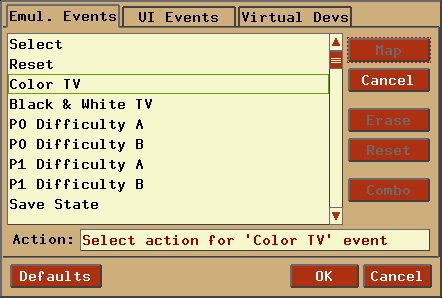
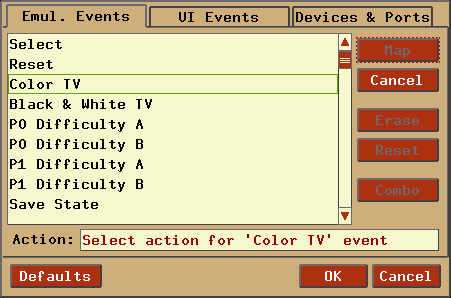
Updated webpage for upcoming 3.2.1 release.

diff --git a/htdocs/docs/index.html b/htdocs/docs/index.html
@@ -10,7 +10,7 @@
   <br><br>
   <center><h2><b>A multi-platform Atari 2600 VCS emulator</b></h2></center>
 
-  <center><h4><b>Release 3.2</b></h4></center>
+  <center><h4><b>Release 3.2.1</b></h4></center>
   <br><br>
 
   <center><h2><b>User's Guide</b></h2></center>
@@ -2341,10 +2341,10 @@
 
   </p>
 
-  <p>Virtual devices can be configured under the 'Virtual Devs' tab, shown below:</p>
+  <p>Device and port settings can be configured under the 'Devices & Ports' tab, shown below:</p>
   <table border="5" cellpadding="2" frame="box" rules="none">
     <tr>
-      <td><img src="graphics/eventmapping_virtualdevs.png"></td>
+      <td><img src="graphics/eventmapping_devsports.png"></td>
       <td>&nbsp;&nbsp;&nbsp;&nbsp;</td>
       <td valign="top">
         <table border="1" cellpadding="4">
@@ -2541,7 +2541,7 @@
   this is outside the scope of this document).  Once your operating system
   properly detects the AtariVox, you will need to tell Stella which serial
   port it is connected to.  This is done by using the '-avoxport' commandline
-  argument, or by setting it in the UI under the 'Virtual Devs' tab in
+  argument, or by setting it in the UI under the 'Devices & Ports' tab in
   <b>Advanced Configuration - <a href="#Remapping">Input Devices</a></b>.</p>
 
   <p>Note that you must use the entire name of the port as specified by

diff --git a/htdocs/downloads.php b/htdocs/downloads.php
@@ -15,57 +15,57 @@
 <table BORDER=0 CELLPADDING=6 WIDTH="100%">
 
 	<tr>
-		<td><b>Latest&nbsp;Release (v/ 3.2)</b></td>
+		<td><b>Latest&nbsp;Release (v/ 3.2.1)</b></td>
 		<td>&nbsp;</td>
 	</tr>
 
 	<tr>
-		<td BGCOLOR="#CCCCCC"><a href="http://prdownloads.sourceforge.net/stella/Stella-3.2-win32.exe?download">Stella-3.2-win32.exe</a></td>
+		<td BGCOLOR="#CCCCCC"><a href="http://prdownloads.sourceforge.net/stella/Stella-3.2.1-win32.exe?download">Stella-3.2.1-win32.exe</a></td>
 		<td BGCOLOR="#FFCC99">Binary installer (exe) for 32-bit Windows 2000/XP/Vista/7</td>
 	</tr>
 
 	<tr>
-		<td BGCOLOR="#CCCCCC"><a href="http://prdownloads.sourceforge.net/stella/Stella-3.2-x64.exe?download">Stella-3.2-x64.exe</a></td>
+		<td BGCOLOR="#CCCCCC"><a href="http://prdownloads.sourceforge.net/stella/Stella-3.2.1-x64.exe?download">Stella-3.2.1-x64.exe</a></td>
 		<td BGCOLOR="#FFCC99">Binary installer (exe) for 64-bit Windows Vista/7</td>
 	</tr>
 
 	<tr>
-		<td BGCOLOR="#CCCCCC"><a href="http://prdownloads.sourceforge.net/stella/Stella-3.2-windows.zip?download">Stella-3.2-windows.zip</a></td>
+		<td BGCOLOR="#CCCCCC"><a href="http://prdownloads.sourceforge.net/stella/Stella-3.2.1-windows.zip?download">Stella-3.2.1-windows.zip</a></td>
 		<td BGCOLOR="#FFCC99">Binary ZIP (32-bit and 64-bit) for Windows 2000/XP/Vista/7</td>
 	</tr>
 
 	<tr>
-		<td BGCOLOR="#CCCCCC"><a href="http://prdownloads.sourceforge.net/stella/Stella-3.2-macosx.dmg?download">Stella-3.2-macosx.dmg</a></td>
+		<td BGCOLOR="#CCCCCC"><a href="http://prdownloads.sourceforge.net/stella/Stella-3.2.1-macosx.dmg?download">Stella-3.2.1-macosx.dmg</a></td>
 		<td BGCOLOR="#FFCC99">Binary DMG for MacOS X (32-bit Universal Binary, version 10.4 and higher)</td>
 	</tr>
 
 	<tr>
-		<td BGCOLOR="#CCCCCC"><a href="http://prdownloads.sourceforge.net/stella/Stella-3.2_intel_10.6-macosx.dmg?download">Stella-3.2_intel_10.6-macosx.dmg</a></td>
+		<td BGCOLOR="#CCCCCC"><a href="http://prdownloads.sourceforge.net/stella/Stella-3.2.1_intel_10.6-macosx.dmg?download">Stella-3.2.1_intel_10.6-macosx.dmg</a></td>
 		<td BGCOLOR="#FFCC99">Binary DMG for MacOS X (32/64-bit, Intel CPU/Snow Leopard only)</td>
 	</tr>
 
 	<tr>
-		<td BGCOLOR="#CCCCCC"><a href="http://prdownloads.sourceforge.net/stella/stella_3.2-1_i386.deb?download">stella_3.2-1_i386.deb</a></td>
+		<td BGCOLOR="#CCCCCC"><a href="http://prdownloads.sourceforge.net/stella/stella_3.2.1-1_i386.deb?download">stella_3.2.1-1_i386.deb</a></td>
 		<td BGCOLOR="#FFCC99">Binary 32-bit DEB for Ubuntu Lucid Lynx (10.04)</td>
 	</tr>
 
 	<tr>
-		<td BGCOLOR="#CCCCCC"><a href="http://prdownloads.sourceforge.net/stella/stella_3.2-1_amd64.deb?download">stella_3.2-1_amd64.deb</a></td>
+		<td BGCOLOR="#CCCCCC"><a href="http://prdownloads.sourceforge.net/stella/stella_3.2.1-1_amd64.deb?download">stella_3.2.1-1_amd64.deb</a></td>
 		<td BGCOLOR="#FFCC99">Binary 64-bit DEB for Ubuntu Lucid Lynx (10.04)</td>
 	</tr>
 
 	<tr>
-		<td BGCOLOR="#CCCCCC"><a href="http://prdownloads.sourceforge.net/stella/stella-3.2-2.i386.rpm?download">stella-3.2-2.i386.rpm</a></td>
+		<td BGCOLOR="#CCCCCC"><a href="http://prdownloads.sourceforge.net/stella/stella-3.2.1-2.i386.rpm?download">stella-3.2.1-2.i386.rpm</a></td>
 		<td BGCOLOR="#FFCC99">Binary 32-bit RPM for Linux (tested in Fedora and Mandriva)</td>
 	</tr>
 
 	<tr>
-		<td BGCOLOR="#CCCCCC"><a href="http://prdownloads.sourceforge.net/stella/stella-3.2-2.x86_64.rpm?download">stella-3.2-2.x86_64.rpm</a></td>
+		<td BGCOLOR="#CCCCCC"><a href="http://prdownloads.sourceforge.net/stella/stella-3.2.1-2.x86_64.rpm?download">stella-3.2.1-2.x86_64.rpm</a></td>
 		<td BGCOLOR="#FFCC99">Binary 64-bit RPM for Linux (tested in Fedora and Mandriva)</td>
 	</tr>
 
 	<tr>
-		<td BGCOLOR="#CCCCCC"><a href="http://prdownloads.sourceforge.net/stella/stella-3.2-src.tar.gz?download">stella-3.2-src.tar.gz</a></td>
+		<td BGCOLOR="#CCCCCC"><a href="http://prdownloads.sourceforge.net/stella/stella-3.2.1-src.tar.gz?download">stella-3.2.1-src.tar.gz</a></td>
 		<td BGCOLOR="#FFCC99">Source code tarball for all systems</td>
 	</tr>
 
@@ -80,7 +80,7 @@
 	</tr>
 
 	<tr>
-		<td BGCOLOR="#CCCCCC"><a href="http://prdownloads.sourceforge.net/stella/stella-snapshots-20100820.zip?download">stella-snapshots-20100820.zip</a></td>
+		<td BGCOLOR="#CCCCCC"><a href="http://prdownloads.sourceforge.net/stella/stella-snapshots-20100825.zip?download">stella-snapshots-20100825.zip</a></td>
 		<td BGCOLOR="#FFCC99">Snapshot files for use in ROM launcher/ROM Info Viewer</td>
 	</tr>
 

diff --git a/htdocs/stellanews.php b/htdocs/stellanews.php
@@ -12,6 +12,22 @@
 			<div class="content">
 
 <!---------------------------------------------------------------->
+<H4>August 25, 2010</H4>
+Stella release 3.2.1 for Linux, MacOS X and Windows is now available.
+<ul>
+<li>Improved behaviour of joystick 'hat' movement.  This should fix bugs
+    most visible in Yars' Revenge.</li>
+
+<li>Fixed bug in debugger rewind states; bankswitching wasn't being
+    performed during the rewind.  Related to this, fixed a similar issue
+    with the debugger 'loadstate' and 'savestate' commands.</li>
+
+<li>Added game properties info for the newly released 'Halo 2600' ROM.</li>
+</ul>
+
+Have Fun!
+
+
 <H4>August 20, 2010</H4>
 Added an FAQ (frequently asked questions) section to the Stella webpage.
 
@@ -119,8 +135,6 @@ Stella release 3.2 for Linux, MacOS X and Windows is now available.
 
 <li>Updated included ZLib to latest release version (1.2.5).</li>
 </ul>
-
-Have Fun!
 
 
 <H4>May 3, 2010</H4>

diff --git a/htdocs/footer.php b/htdocs/footer.php
@@ -2,4 +2,4 @@
 <a href="http://www.bradfordmott.com">Bradford W. Mott</a>, 
 <a href="http://minbar.org">Stephen Anthony</a> and 
 <a href="theteam.php">The Stella Team</a>
-<br />	Site Updated August 20, 2010</p>
+<br />	Site Updated August 25, 2010</p>
